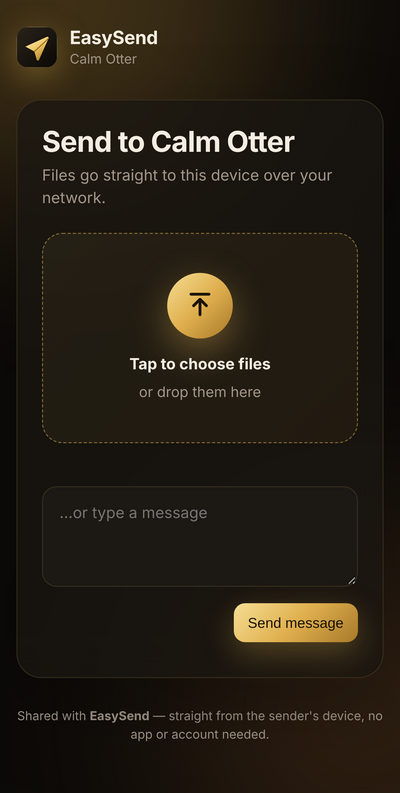
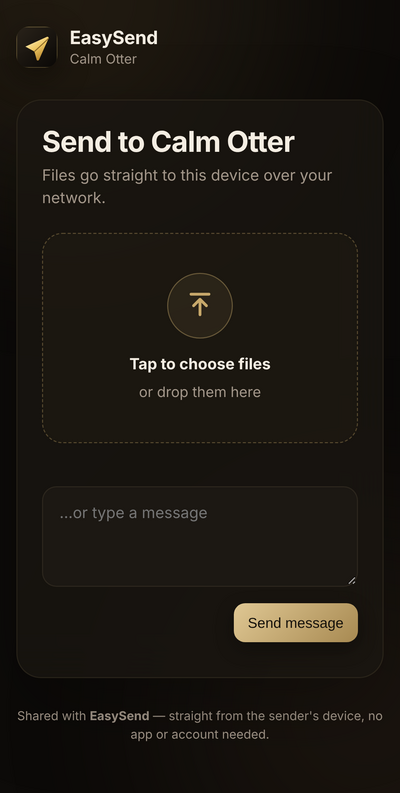
Tone down the gold
Softer, less saturated metallic accents; badges become dark with a thin
accent ring instead of solid gold, so gold is kept for call-to-action
buttons and highlights. Same treatment for the browser pages and icon.

Changed region(s): [[0.0, 0.0, 0.48, 0.1513], [0.57, 0.7566, 0.9, 0.8474], [0.39, 0.3329, 0.6, 0.454]]

diff --git a/internal/webshare/pages/layout.html b/internal/webshare/pages/layout.html
@@ -5,27 +5,27 @@
 <link rel="icon" href="/logo.svg">
 <title>{{.}} · EasySend</title>
 <style>
-:root{--bg:#0D0B09;--panel:rgba(26,22,17,.78);--panel2:#1C1813;--line:rgba(242,210,124,.12);--text:#F5EEE3;--muted:#A3978A;--brand:#E2B654;--brand2:#F2D27C;--ink:#1B1408;--ok:#8CC08A;--bad:#E5735F;--grad:linear-gradient(135deg,#F6DE94,#E0B04F 50%,#A97A2A)}
-@media (prefers-color-scheme:light){:root{--bg:#F8F4EC;--panel:rgba(255,253,249,.88);--panel2:#FFFDF9;--line:rgba(120,90,40,.14);--text:#1E1912;--muted:#7B6F60;--brand:#B8862F}}
+:root{--bg:#0D0B09;--panel:rgba(26,22,17,.78);--panel2:#1C1813;--line:rgba(224,200,148,.09);--text:#F5EEE3;--muted:#A3978A;--brand:#C8A96B;--brand2:#E0C894;--ink:#17130C;--ok:#8CC08A;--bad:#E5735F;--grad:linear-gradient(135deg,#E0C894,#A88A52);--orb:rgba(200,169,107,.09);--ring:rgba(200,169,107,.4)}
+@media (prefers-color-scheme:light){:root{--bg:#F8F4EC;--panel:rgba(255,253,249,.88);--panel2:#FFFDF9;--line:rgba(120,90,40,.14);--text:#1E1912;--muted:#7B6F60;--brand:#A88A52}}
 *{box-sizing:border-box}html,body{margin:0}
 body{min-height:100vh;background:var(--bg);color:var(--text);font:15px/1.5 system-ui,-apple-system,"Segoe UI",Roboto,Inter,sans-serif;-webkit-font-smoothing:antialiased;padding:max(24px,env(safe-area-inset-top)) 16px 48px;overflow-x:hidden}
 body:before,body:after{content:"";position:fixed;z-index:-1;width:60vmax;height:60vmax;border-radius:50%;filter:blur(90px);opacity:.35;pointer-events:none}
-body:before{background:#C8963E;top:-30vmax;left:-20vmax;opacity:.28}body:after{background:#8E5A2C;bottom:-35vmax;right:-25vmax;opacity:.25}
+body:before{background:#8A6E3E;top:-30vmax;left:-20vmax;opacity:.16}body:after{background:#5E4630;bottom:-35vmax;right:-25vmax;opacity:.16}
 .wrap{max-width:720px;margin:0 auto}
 header{display:flex;align-items:center;gap:12px;margin-bottom:28px}
-header img{width:40px;height:40px;border-radius:12px;box-shadow:0 8px 30px rgba(226,182,84,.35)}
+header img{width:40px;height:40px;border-radius:12px;box-shadow:0 8px 30px rgba(0,0,0,.35)}
 header b{font-size:18px;letter-spacing:-.01em}header span{color:var(--muted);font-size:13px;display:block;margin-top:-2px}
 .card{background:var(--panel);backdrop-filter:blur(18px);-webkit-backdrop-filter:blur(18px);border:1px solid var(--line);border-radius:24px;padding:24px;box-shadow:0 30px 80px rgba(0,0,0,.25)}
 h1{font-size:28px;line-height:1.15;letter-spacing:-.02em;margin:0 0 6px}
 .sub{color:var(--muted);margin:0 0 22px}
-.btn{appearance:none;border:0;cursor:pointer;display:inline-flex;align-items:center;justify-content:center;gap:8px;height:48px;padding:0 22px;border-radius:14px;font:600 15px/1 inherit;color:var(--ink);background:var(--grad);text-decoration:none;box-shadow:0 10px 30px rgba(226,182,84,.3);transition:transform .15s,box-shadow .15s}
-.btn:hover{transform:translateY(-1px);box-shadow:0 14px 34px rgba(226,182,84,.45)}.btn:active{transform:translateY(0)}
+.btn{appearance:none;border:0;cursor:pointer;display:inline-flex;align-items:center;justify-content:center;gap:8px;height:48px;padding:0 22px;border-radius:14px;font:600 15px/1 inherit;color:var(--ink);background:var(--grad);text-decoration:none;box-shadow:0 6px 18px rgba(0,0,0,.3);transition:transform .15s,box-shadow .15s}
+.btn:hover{transform:translateY(-1px);box-shadow:0 8px 22px rgba(0,0,0,.35)}.btn:active{transform:translateY(0)}
 .btn.ghost{background:transparent;color:var(--text);border:1px solid var(--line);box-shadow:none}
 .btn.small{height:38px;padding:0 14px;border-radius:11px;font-size:14px}
 .btn[disabled]{opacity:.5;pointer-events:none}
 .list{display:flex;flex-direction:column;gap:10px;margin-top:20px}
 .row{display:flex;align-items:center;gap:14px;padding:12px;border-radius:16px;background:var(--panel2);border:1px solid var(--line)}
-.ico{flex:none;width:46px;height:46px;border-radius:13px;display:grid;place-items:center;background:linear-gradient(135deg,rgba(242,210,124,.16),rgba(169,122,42,.2));color:var(--brand);overflow:hidden}
+.ico{flex:none;width:46px;height:46px;border-radius:13px;display:grid;place-items:center;background:var(--orb);color:var(--brand);overflow:hidden}
 .ico img{width:100%;height:100%;object-fit:cover}
 .meta{flex:1;min-width:0}.name{font-weight:600;white-space:nowrap;overflow:hidden;text-overflow:ellipsis}.size{color:var(--muted);font-size:13px}
 .text{white-space:pre-wrap;word-break:break-word;font-size:14px;max-height:220px;overflow:auto;margin:6px 0 0;color:var(--text)}
@@ -34,7 +34,7 @@ h1{font-size:28px;line-height:1.15;letter-spacing:-.02em;margin:0 0 6px}
 .pill i{width:7px;height:7px;border-radius:50%;background:var(--ok);box-shadow:0 0 12px var(--ok)}
 footer{text-align:center;color:var(--muted);font-size:12px;margin-top:28px}footer a{color:inherit}
 input,textarea{width:100%;background:var(--panel2);color:var(--text);border:1px solid var(--line);border-radius:14px;padding:14px 16px;font:inherit;outline:none}
-input:focus,textarea:focus{border-color:var(--brand);box-shadow:0 0 0 4px rgba(226,182,84,.22)}
+input:focus,textarea:focus{border-color:var(--brand);box-shadow:0 0 0 4px rgba(200,169,107,.18)}
 .err{color:var(--bad);font-size:14px;margin:10px 0 0}
 svg{display:block}
 </style></head><body><div class="wrap">

diff --git a/internal/webshare/pages/drop.html b/internal/webshare/pages/drop.html
@@ -2,16 +2,16 @@
 <div class="card">
 <h1>Send to {{.Device}}</h1><p class="sub">Files go straight to this device over your network.</p>
 <label id="zone" class="zone"><input id="pick" type="file" multiple hidden>
-<div class="orb"><svg width="30" height="30" viewBox="0 0 24 24" fill="none" stroke="#1B1408" stroke-width="2.2" stroke-linecap="round" stroke-linejoin="round"><path d="M12 19V7m0 0-5 5m5-5 5 5M5 3h14"/></svg></div>
+<div class="orb" style="color:var(--brand)"><svg width="30" height="30" viewBox="0 0 24 24" fill="none" stroke="currentColor" stroke-width="2.2" stroke-linecap="round" stroke-linejoin="round"><path d="M12 19V7m0 0-5 5m5-5 5 5M5 3h14"/></svg></div>
 <b>Tap to choose files</b><span>or drop them here</span></label>
 <div class="list" id="list"></div>
 <div style="margin-top:22px"><textarea id="msg" rows="3" placeholder="…or type a message"></textarea>
 <div style="display:flex;justify-content:flex-end;margin-top:10px"><button class="btn small" id="sendText">Send message</button></div></div>
 <p class="err" id="err"></p>
 </div>
-<style>.zone{display:flex;flex-direction:column;align-items:center;gap:6px;padding:38px 16px;border-radius:20px;border:1.5px dashed rgba(226,182,84,.5);background:linear-gradient(135deg,rgba(242,210,124,.06),rgba(169,122,42,.08));cursor:pointer;text-align:center;transition:.2s}
-.zone.over{border-color:var(--brand2);background:linear-gradient(135deg,rgba(242,210,124,.16),rgba(169,122,42,.2));transform:scale(1.01)}.zone span{color:var(--muted);font-size:14px}
-.orb{width:64px;height:64px;border-radius:50%;display:grid;place-items:center;background:var(--grad);box-shadow:0 12px 36px rgba(226,182,84,.4);margin-bottom:8px}
+<style>.zone{display:flex;flex-direction:column;align-items:center;gap:6px;padding:38px 16px;border-radius:20px;border:1.5px dashed rgba(200,169,107,.35);background:rgba(200,169,107,.03);cursor:pointer;text-align:center;transition:.2s}
+.zone.over{border-color:var(--brand2);background:rgba(200,169,107,.08);transform:scale(1.01)}.zone span{color:var(--muted);font-size:14px}
+.orb{width:64px;height:64px;border-radius:50%;display:grid;place-items:center;background:var(--orb);border:1px solid var(--ring);margin-bottom:8px}
 .bar{height:6px;border-radius:9px;background:var(--line);overflow:hidden;margin-top:8px}.bar i{display:block;height:100%;width:0;background:var(--grad);transition:width .2s}
 .done .bar i{background:var(--ok)}</style>
 <script>

diff --git a/internal/webshare/pages/pin.html b/internal/webshare/pages/pin.html
@@ -1,6 +1,6 @@
 {{define "pin"}}{{template "head" "Enter PIN"}}{{template "brand" .Device}}
 <div class="card" style="max-width:420px;margin:0 auto;text-align:center">
-<div style="width:64px;height:64px;border-radius:50%;margin:4px auto 16px;display:grid;place-items:center;background:var(--grad);box-shadow:0 12px 36px rgba(226,182,84,.4)"><svg width="28" height="28" viewBox="0 0 24 24" fill="none" stroke="#1B1408" stroke-width="2.2" stroke-linecap="round" stroke-linejoin="round"><rect x="4" y="11" width="16" height="10" rx="2.5"/><path d="M8 11V7a4 4 0 0 1 8 0v4"/></svg></div>
+<div style="width:64px;height:64px;border-radius:50%;margin:4px auto 16px;display:grid;place-items:center;background:var(--orb);border:1px solid var(--ring);color:var(--brand)"><svg width="28" height="28" viewBox="0 0 24 24" fill="none" stroke="currentColor" stroke-width="2.2" stroke-linecap="round" stroke-linejoin="round"><rect x="4" y="11" width="16" height="10" rx="2.5"/><path d="M8 11V7a4 4 0 0 1 8 0v4"/></svg></div>
 <h1>Protected link</h1><p class="sub">Enter the PIN shown on {{.Device}}.</p>
 <form method="post" action="{{.Back}}/pin"><input name="pin" inputmode="numeric" autocomplete="one-time-code" autofocus placeholder="PIN" style="text-align:center;font-size:22px;letter-spacing:.3em">
 {{if .Error}}<p class="err">{{.Error}}</p>{{end}}

diff --git a/ui/theme.go b/ui/theme.go
@@ -7,20 +7,22 @@ import (
 	"easysend/internal/settings"
 )
 
-// accent is a metallic gradient the user can pick. Ink is the text and
-// icon color drawn on top of it.
+// accent is a soft metallic tone the user can pick: a gradient for the
+// call-to-action buttons, a solid tone for highlights, and the ink drawn
+// on top of the gradient.
 type accent struct {
 	Name     string
 	From, To string
+	Solid    string
 	Ink      string
 }
 
 var accents = []accent{
-	{"Gold", "#F2D27C", "#B8862F", "#1B1408"},
-	{"Rose gold", "#F1C3AE", "#B26E55", "#1F110B"},
-	{"Amber", "#FFC56B", "#D9822B", "#1E1205"},
-	{"Champagne", "#F4E7C8", "#C2A06A", "#1C160C"},
-	{"Bronze", "#E2AE74", "#8E5A2C", "#1C1006"},
+	{"Gold", "#E0C894", "#A88A52", "#C8A96B", "#17130C"},
+	{"Rose gold", "#E3C3B4", "#A47665", "#C79A87", "#1A110D"},
+	{"Amber", "#E6C595", "#AE8152", "#CDA06A", "#19110A"},
+	{"Champagne", "#E8DEC8", "#AE9D7E", "#CBBB98", "#18150F"},
+	{"Bronze", "#D5B394", "#86654A", "#B08A67", "#170F09"},
 }
 
 func currentAccent(s settings.Settings) accent {
@@ -34,12 +36,12 @@ func currentAccent(s settings.Settings) accent {
 func applyTheme(s settings.Settings, systemDark bool) {
 	a := currentAccent(s)
 	giode.SetPalette(giode.ModeDark, giode.Palette{
-		Primary: giode.Color(a.From), Accent: giode.Color(a.To), Secondary: giode.Color(a.To),
+		Primary: giode.Color(a.Solid), Accent: giode.Color(a.Solid), Secondary: giode.Color(a.To),
 		Background: "#0D0B09", Surface: "#17140F", Text: "#F5EEE3", Muted: "#A3978A", Border: "#2B251D",
-		OnPrimary: giode.Color(a.Ink), Success: "#8CC08A", Warning: "#E9A84C", Danger: "#E5735F", Info: "#D9B77A",
+		OnPrimary: giode.Color(a.Ink), Success: "#8CC08A", Warning: "#E9A84C", Danger: "#E5735F", Info: "#B8A68A",
 	})
 	giode.SetPalette(giode.ModeLight, giode.Palette{
-		Primary: giode.Color(a.To), Accent: giode.Color(a.To), Secondary: giode.Color(a.To),
+		Primary: giode.Color(a.To), Accent: giode.Color(a.To), Secondary: giode.Color(a.Solid),
 		Background: "#F8F4EC", Surface: "#FFFDF9", Text: "#1E1912", Muted: "#7B6F60", Border: "#E9E0D1",
 		OnPrimary: giode.Color(a.Ink), Success: "#4C8A4A", Warning: "#B9741B", Danger: "#C2462F", Info: "#8C6A2A",
 	})
@@ -61,8 +63,10 @@ func applyTheme(s settings.Settings, systemDark bool) {
 var (
 	colSurface2    = giode.Mix("theme.text", "theme.surface", 0.035)
 	colSurface3    = giode.Mix("theme.text", "theme.surface", 0.07)
-	colPrimarySoft = giode.Mix("theme.primary", "theme.surface", 0.14)
-	colAccentSoft  = giode.Mix("theme.accent", "theme.surface", 0.14)
+	colPrimarySoft = giode.Mix("theme.primary", "theme.surface", 0.1)
+	colAccentSoft  = giode.Mix("theme.accent", "theme.surface", 0.09)
+	colOrbFill     = giode.Mix("theme.primary", "theme.surface", 0.08)
+	colOrbRing     = giode.Mix("theme.primary", "theme.surface", 0.38)
 	colSuccessSoft = giode.Mix("theme.success", "theme.surface", 0.15)
 	colDangerSoft  = giode.Mix("theme.danger", "theme.surface", 0.14)
 	colWarningSoft = giode.Mix("theme.warning", "theme.surface", 0.15)
@@ -97,13 +101,13 @@ func card(st giode.Styles, kids ...giode.Element) giode.Element {
 	return giode.Box(base.With(st), kids...)
 }
 
-// orb is a round, gradient-filled badge holding an icon.
-func orb(s settings.Settings, iconName string, size int) giode.Element {
+// orb is a round badge with a soft accent ring holding an icon.
+func orb(iconName string, size int) giode.Element {
 	return giode.Box(giode.Styles{
-		Width: prop.Width(size), Height: prop.Height(size), BorderRadius: prop.BorderRadius(size / 2), BackgroundGradient: brandGradient(s, 135),
+		Width: prop.Width(size), Height: prop.Height(size), BorderRadius: prop.BorderRadius(size / 2),
+		Background: colOrbFill, BorderWidth: 1, BorderColor: colOrbRing,
 		Align: giode.AlignCenter, Justify: giode.JustifyCenter,
-		BoxShadow: giode.BoxShadow{Y: size / 6, Blur: size / 2, Color: giode.Color(currentAccent(s).To + "55")},
-	}, icon(iconName, size*9/20, currentAccent(s).Ink))
+	}, icon(iconName, size*9/20, "theme.primary"))
 }
 
 // tile is a rounded square with a tinted background and an icon.

diff --git a/internal/webshare/render.go b/internal/webshare/render.go
@@ -49,4 +49,4 @@ func (s *Server) gone(w http.ResponseWriter) {
 	s.render(w, "gone", pageData{Device: s.cfg.Device()})
 }
 
-const logoSVG = `<svg xmlns="http://www.w3.org/2000/svg" viewBox="0 0 64 64"><defs><linearGradient id="b" x1="0" y1="0" x2="1" y2="1"><stop offset="0" stop-color="#2A231A"/><stop offset="1" stop-color="#0B0907"/></linearGradient><linearGradient id="g" x1=".2" y1="0" x2=".8" y2="1"><stop offset="0" stop-color="#FFF1C4"/><stop offset=".45" stop-color="#F0C964"/><stop offset="1" stop-color="#B07C26"/></linearGradient></defs><rect width="64" height="64" rx="16" fill="url(#b)"/><rect x=".5" y=".5" width="63" height="63" rx="15.5" fill="none" stroke="#F2D27C" stroke-opacity=".35"/><path d="M14 31 47.5 15.9c1.7-.8 3.4.8 2.6 2.5L35.3 51.6c-.8 1.7-3.2 1.6-3.7-.2l-3.5-12.6Z" fill="url(#g)"/><path d="m28.1 38.8 22-20.4" stroke="#8C6A2A" stroke-width="1.6" stroke-linecap="round"/></svg>`
+const logoSVG = `<svg xmlns="http://www.w3.org/2000/svg" viewBox="0 0 64 64"><defs><linearGradient id="b" x1="0" y1="0" x2="1" y2="1"><stop offset="0" stop-color="#2A231A"/><stop offset="1" stop-color="#0B0907"/></linearGradient><linearGradient id="g" x1=".2" y1="0" x2=".8" y2="1"><stop offset="0" stop-color="#F4E6C6"/><stop offset=".45" stop-color="#D6B87C"/><stop offset="1" stop-color="#977645"/></linearGradient></defs><rect width="64" height="64" rx="16" fill="url(#b)"/><rect x=".5" y=".5" width="63" height="63" rx="15.5" fill="none" stroke="#F2D27C" stroke-opacity=".35"/><path d="M14 31 47.5 15.9c1.7-.8 3.4.8 2.6 2.5L35.3 51.6c-.8 1.7-3.2 1.6-3.7-.2l-3.5-12.6Z" fill="url(#g)"/><path d="m28.1 38.8 22-20.4" stroke="#8C6A2A" stroke-width="1.6" stroke-linecap="round"/></svg>`

diff --git a/ui/drop_zone.go b/ui/drop_zone.go
@@ -24,7 +24,6 @@ func newDropZone(u *UI) *dropZone {
 }
 
 func (d *dropZone) Layout(gtx layout.Context) layout.Dimensions {
-	s := d.u.eng.Settings.Get()
 	_, dragging := d.u.app.FileDrag()
 	compact := len(d.u.items) > 0
 	border, bg := "theme.border", colSurface2
@@ -48,7 +47,7 @@ func (d *dropZone) Layout(gtx layout.Context) layout.Dimensions {
 	if compact {
 		return giode.Row(giode.Styles{Width: -1, Gap: 14, Align: giode.AlignCenter, Padding: giode.UniformInset(16), BorderRadius: 20,
 			Background: giode.Color(bg), BorderWidth: 1, BorderColor: giode.Color(border)},
-			orb(s, "plus", 40),
+			orb("plus", 40),
 			giode.Stack(giode.Styles{Gap: 2, FlexGrow: 1},
 				giode.Text("Add more", stStrong),
 				giode.Text("Drop here or pick more to send together", stMuted)),
@@ -57,7 +56,7 @@ func (d *dropZone) Layout(gtx layout.Context) layout.Dimensions {
 	}
 	return giode.Stack(giode.Styles{Width: -1, Align: giode.AlignCenter, Gap: 10, Padding: giode.Inset{Top: 34, Bottom: 30, Left: 20, Right: 20},
 		BorderRadius: 26, Background: giode.Color(bg), BorderWidth: 2, BorderColor: giode.Color(border)},
-		orb(s, "upload", 72),
+		orb("upload", 72),
 		giode.Box(giode.Styles{Height: 6}),
 		giode.Text(title, giode.Styles{FontFamily: fontDisplay, FontWeight: giode.FontWeightBold, FontSize: 22, Color: "theme.text", TextAlign: giode.TextAlignCenter}),
 		giode.Text(sub, giode.Styles{FontFamily: fontText, FontSize: 14, Color: "theme.muted", TextAlign: giode.TextAlignCenter}),

diff --git a/ui/radar.go b/ui/radar.go
@@ -15,7 +15,7 @@ import (
 // and "ready to receive" animation.
 func radar(s settings.Settings, size int, iconName string) giode.Element {
 	a := currentAccent(s)
-	r, g, b := hexRGB(a.From)
+	r, g, b := hexRGB(a.Solid)
 	rings := giode.Canvas(giode.Styles{Width: prop.Width(size), Height: prop.Height(size)}, func(p *giode.Painter) {
 		c := p.Width() / 2
 		maxR := c
@@ -24,16 +24,16 @@ func radar(s settings.Settings, size int, iconName string) giode.Element {
 		for i := 0; i < 3; i++ {
 			phase := float32((now/period + float64(i)/3) - float64(int(now/period+float64(i)/3)))
 			rad := maxR*0.28 + phase*(maxR*0.72)
-			alpha := (1 - phase) * 0.55
+			alpha := (1 - phase) * 0.4
 			p.Arc(c, c, rad, 2, 0, 360, fmt.Sprintf("rgba(%d,%d,%d,%.3f)", r, g, b, alpha))
 		}
-		p.Circle(c, c, maxR*0.34, fmt.Sprintf("rgba(%d,%d,%d,0.10)", r, g, b))
+		p.Circle(c, c, maxR*0.34, fmt.Sprintf("rgba(%d,%d,%d,0.06)", r, g, b))
 		kit.RequestFrame(p.Context())
 	})
 	orbSize := size * 30 / 100
 	return giode.Box(giode.Styles{Width: prop.Width(size), Height: prop.Height(size), Align: giode.AlignCenter, Justify: giode.JustifyCenter},
 		giode.Box(giode.Styles{Position: giode.PositionAbsolute, Top: giode.Flush, Left: giode.Flush}, rings),
-		orb(s, iconName, orbSize),
+		orb(iconName, orbSize),
 	)
 }
 

diff --git a/ui/link_panel.go b/ui/link_panel.go
@@ -75,7 +75,6 @@ func option(label string, el giode.Element) giode.Element {
 }
 
 func (p *linkPanel) Layout(gtx layout.Context) layout.Dimensions {
-	s := p.u.eng.Settings.Get()
 	lockRow := []giode.Element{p.lock}
 	if p.lock.Checked() {
 		lockRow = append(lockRow, p.pin)
@@ -83,7 +82,7 @@ func (p *linkPanel) Layout(gtx layout.Context) layout.Dimensions {
 	kids := []giode.Element{
 		card(giode.Styles{},
 			sideBySide(giode.Styles{Width: -1, Gap: 18, Align: giode.AlignCenter},
-				orb(s, "qr", 64),
+				orb("qr", 64),
 				giode.Stack(giode.Styles{Gap: 6, FlexGrow: 1, MinWidth: 240},
 					giode.Text("Share with a link or QR code", stHeading),
 					giode.Text("Anyone can download in their browser — no app needed. Scan the code with a phone camera.", stMuted),

diff --git a/ui/receive_screen.go b/ui/receive_screen.go
@@ -75,9 +75,8 @@ func (r *receiveScreen) hero() giode.Element {
 }
 
 func (r *receiveScreen) codeCard() giode.Element {
-	s := r.u.eng.Settings.Get()
 	return card(giode.Styles{FlexGrow: 1, Width: 0, MinWidth: 300},
-		giode.Row(giode.Styles{Gap: 12, Align: giode.AlignCenter}, orb(s, "globe", 40), giode.Text("Receive with a code", stHeading)),
+		giode.Row(giode.Styles{Gap: 12, Align: giode.AlignCenter}, orb("globe", 40), giode.Text("Receive with a code", stHeading)),
 		giode.Text("From anywhere in the world: type the code the sender sees in EasySend, the wormhole command or a Magic Wormhole app.", stMuted),
 		giode.Row(giode.Styles{Width: -1, Gap: 10, Align: giode.AlignCenter, Wrap: giode.WrapNoWrap}, giode.Box(giode.Styles{FlexGrow: 1}, r.code), r.receive),
 	)

diff --git a/ui/internet_panel.go b/ui/internet_panel.go
@@ -31,11 +31,10 @@ func (p *internetPanel) start() {
 }
 
 func (p *internetPanel) Layout(gtx layout.Context) layout.Dimensions {
-	s := p.u.eng.Settings.Get()
 	kids := []giode.Element{
 		card(giode.Styles{},
 			sideBySide(giode.Styles{Width: -1, Gap: 18, Align: giode.AlignCenter},
-				orb(s, "globe", 64),
+				orb("globe", 64),
 				giode.Stack(giode.Styles{Gap: 6, FlexGrow: 1, MinWidth: 240},
 					giode.Text("Send anywhere with a code", stHeading),
 					giode.Text("Works across the internet, between any networks. Devices connect directly when they can, through a relay when they can't.", stMuted),

diff --git a/ui/pin_dialog.go b/ui/pin_dialog.go
@@ -67,9 +67,8 @@ func (d *pinDialog) submit() {
 }
 
 func (d *pinDialog) content() giode.Element {
-	s := d.u.eng.Settings.Get()
 	return giode.Stack(giode.Styles{Gap: 14, Width: -1, Align: giode.AlignCenter},
-		orb(s, "lock", 60),
+		orb("lock", 60),
 		giode.Text("PIN required", giode.Styles{FontFamily: fontDisplay, FontWeight: giode.FontWeightBold, FontSize: 22, Color: "theme.text"}),
 		giode.Text(d.current.peer.Alias+" asks for a PIN. It's shown in their settings.", giode.Styles{FontFamily: fontText, FontSize: 13.5, Color: "theme.muted", TextAlign: giode.TextAlignCenter}),
 		d.input,

diff --git a/ui/browser_drop_card.go b/ui/browser_drop_card.go
@@ -39,7 +39,7 @@ func (c *browserDropCard) Layout(gtx layout.Context) layout.Dimensions {
 	s := c.u.eng.Settings.Get()
 	c.on.SetChecked(s.BrowserDrop)
 	kids := []giode.Element{
-		giode.Row(giode.Styles{Gap: 12, Align: giode.AlignCenter}, orb(s, "qr", 40), giode.Text("Receive from a browser", stHeading)),
+		giode.Row(giode.Styles{Gap: 12, Align: giode.AlignCenter}, orb("qr", 40), giode.Text("Receive from a browser", stHeading)),
 		giode.Text("No app on the other phone or computer? Let them scan this code and upload in their browser.", stMuted),
 		c.on,
 	}
